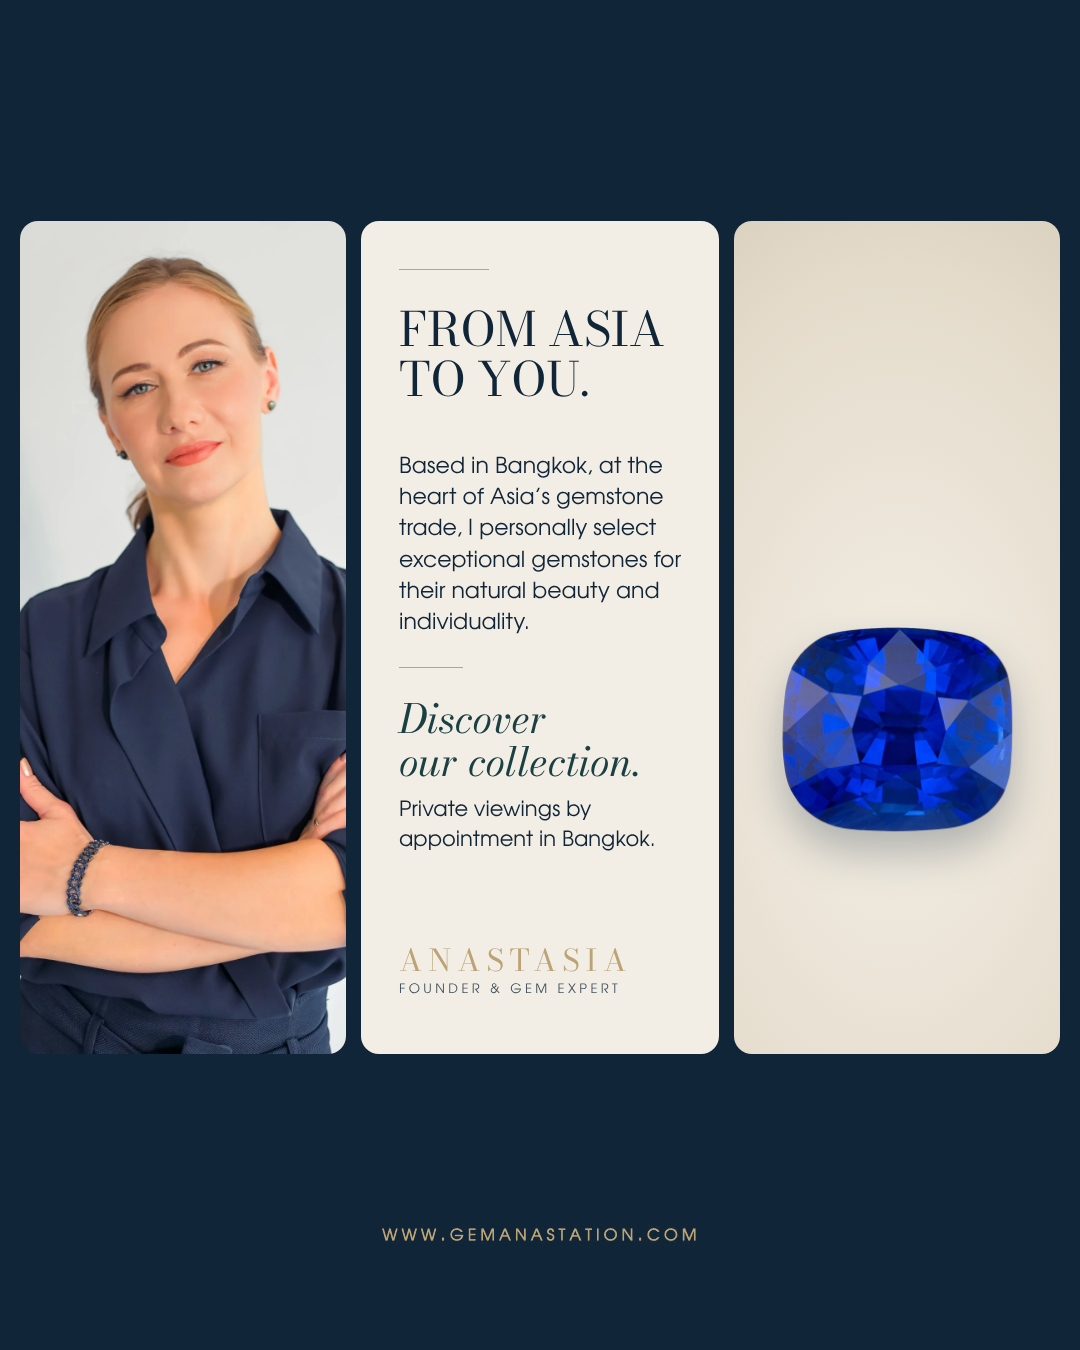
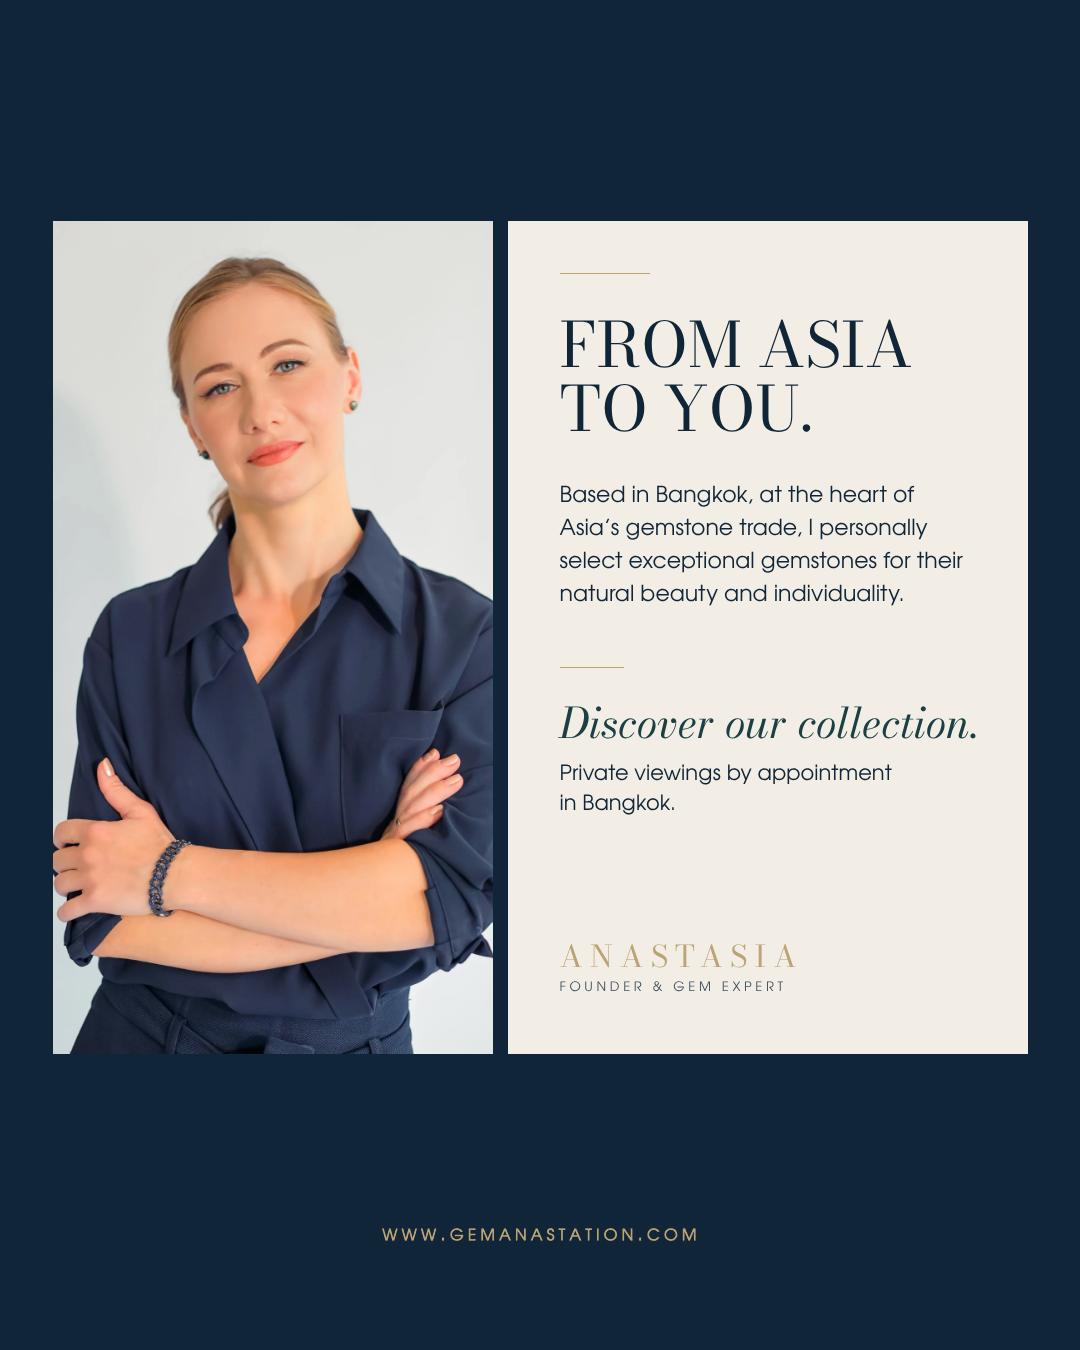
Founder's Note rev. 3: two square-cornered panels (portrait + text)
Claude-Session: https://claude.ai/code/session_01DPJpbdE4xE8Jg3JGMEEyZy

Changed region(s): [[0.0, 0.1556, 1.0, 0.7778]]

diff --git a/gem-anastation-reels/founders_note/note_gems-of-asia.html b/gem-anastation-reels/founders_note/note_gems-of-asia.html
@@ -6,42 +6,36 @@
   :root { --navy: #102537; --teal: #1A4043; --gold2: #BBA375; }
   body { background: #d9d6d0; }
   .slide { width: 1080px; height: 1350px; background: var(--navy); position: relative; overflow: hidden; }
-  .panel { position: absolute; top: 221px; height: 833px; border-radius: 18px; overflow: hidden; }
-  .p1 { left: 20px; width: 326px; }
-  .p1 img { width: 100%; height: 100%; object-fit: cover; object-position: 46% 50%; display: block; }
-  .p2 { left: 361px; width: 358px; background: var(--ivory); color: var(--navy); }
-  .p3 { left: 734px; width: 326px;
-        background: radial-gradient(120% 80% at 50% 62%, #F3EEE5 0%, #E4DBCB 70%, #D6CBB8 100%); }
-  .p3 img { position: absolute; left: 50%; top: 61%; width: 76%; transform: translate(-50%, -50%);
-            filter: drop-shadow(0 22px 20px rgba(16,37,55,.28)); }   /* scaled only, never reshaped */
-
-  .p2 .in { position: absolute; left: 38px; right: 30px; top: 0; bottom: 0; }
+  .panel { position: absolute; top: 221px; height: 833px; overflow: hidden; }   /* square corners */
+  .p1 { left: 52.5px; width: 440px; }
+  .p1 img { width: 100%; height: 100%; object-fit: cover; object-position: 48% 50%; display: block; }
+  .p2 { left: 507.5px; width: 520px; background: var(--ivory); color: var(--navy); }
+  .p2 .in { position: absolute; left: 52px; right: 44px; top: 0; bottom: 0; }
   .hr { position: absolute; left: 0; height: 1px; background: var(--gold2); }
-  .h1 { position: absolute; left: 0; top: 84px; margin: 0; font-family: "Didot Title"; font-weight: 400;
-        font-size: 47px; line-height: 1.06; letter-spacing: -.005em; text-transform: uppercase; color: var(--navy); }
-  .letter { position: absolute; left: 0; top: 232px; width: 290px; margin: 0; font-family: "AvantGarde";
-        font-size: 22px; line-height: 1.42; color: var(--navy); }
-  .lead { position: absolute; left: 0; top: 476px; font-family: "Didot Italic"; font-style: italic;
-        font-size: 40px; line-height: 1.08; color: var(--teal); }
-  .line { position: absolute; left: 0; top: 576px; width: 290px; font-family: "AvantGarde";
-        font-size: 21px; line-height: 1.42; color: var(--navy); }
-  .name { position: absolute; left: 0; top: 716px; font-family: "Didot Title"; font-size: 30px;
-        letter-spacing: .2em; color: var(--gold2); }
-  .role { position: absolute; left: 0; top: 762px; font-family: "AvantGarde"; font-size: 13px;
-        letter-spacing: .26em; text-transform: uppercase; color: var(--navy); opacity: .8; }
+  .h1 { position: absolute; left: 0; top: 92px; margin: 0; font-family: "Didot Title"; font-weight: 400;
+        font-size: 62px; line-height: 1.04; text-transform: uppercase; color: var(--navy); }
+  .letter { position: absolute; left: 0; top: 260px; width: 410px; margin: 0; font-family: "AvantGarde";
+        font-size: 22px; line-height: 1.5; color: var(--navy); }
+  .lead { position: absolute; left: 0; top: 480px; font-family: "Didot Italic"; font-style: italic;
+        font-size: 42px; line-height: 1.08; color: var(--teal); }
+  .line { position: absolute; left: 0; top: 540px; width: 410px; font-family: "AvantGarde";
+        font-size: 21px; line-height: 1.45; color: var(--navy); }
+  .name { position: absolute; left: 0; top: 712px; font-family: "Didot Title"; font-size: 30px;
+        letter-spacing: .24em; color: var(--gold2); }
+  .role { position: absolute; left: 0; top: 760px; font-family: "AvantGarde"; font-size: 13px;
+        letter-spacing: .28em; text-transform: uppercase; color: var(--navy); opacity: .8; }
 </style></head>
 <body><section class="slide" id="note">
   <div class="panel p1"><img src="../gems_of_asia/sources/anastasia_portrait.webp" alt="Anastasia"></div>
   <div class="panel p2"><div class="in">
-    <div class="hr" style="top:48px; width:90px"></div>
+    <div class="hr" style="top:52px; width:90px"></div>
     <h1 class="h1">From Asia<br>to you.</h1>
     <p class="letter">Based in Bangkok, at the heart of Asia’s gemstone trade, I personally select exceptional gemstones for their natural beauty and individuality.</p>
     <div class="hr" style="top:446px; width:64px"></div>
-    <div class="lead">Discover<br>our collection.</div>
-    <div class="line">Private viewings by appointment in Bangkok.</div>
+    <div class="lead">Discover our collection.</div>
+    <div class="line">Private viewings by appointment<br>in Bangkok.</div>
     <div class="name">ANASTASIA</div>
     <div class="role">Founder &amp; Gem Expert</div>
   </div></div>
-  <div class="panel p3"><img src="../gems_of_asia/sources/gem_srilanka_blue_sapphire.png" alt="Blue Sapphire"></div>
   <img src="build/url_on_navy.png" style="position:absolute; left:375px; top:1223px" width="351" height="23" alt="www.gemanastation.com">
 </section></body></html>

diff --git a/gem-anastation-reels/founders_note/README.md b/gem-anastation-reels/founders_note/README.md
@@ -1,19 +1,12 @@
 # Founder's Note — closing slide template (1080 × 1350)
 
-Composition taken from the client reference: navy #102537 page, three
-rounded panels (18 px radius) in one row, 15 px gaps, top y = 221, height 833:
-
-| Panel | x / width | Content |
-|---|---|---|
-| Left | 20 / 326 | original founder portrait, cropped by the frame only (no retouching) |
-| Centre | 361 / 358 | ivory text column, 38 px inner margin |
-| Right | 734 / 326 | real gemstone photo (cut-out), scaled only, on a warm ivory–sand light |
-
-Centre column: gold 90 px rule → Didot caps 47 px headline (#102537) →
-AvantGarde 22 px letter → gold 64 px rule → Didot italic 40 px CTA lead in
-deep teal #1A4043 → AvantGarde 21 px CTA line → ANASTASIA Didot 30 px 0.2 em
-#BBA375 → FOUNDER & GEM EXPERT AvantGarde caps 13 px.
-Website line: post rule (text top y = 1228, centred), #BBA375. No logo, no arrow.
+Rev. 3 (client brief): navy #102537 page, two panels of equal height side by
+side, square corners; portrait 440 px wide, ivory text panel 520 px wide,
+15 px gap, centred; top y = 221, height 833. Text panel: 52 px inner margin,
+gold rule → Didot caps 62 px headline → AvantGarde 22 px letter → gold rule →
+Didot italic 42 px CTA lead in deep teal #1A4043 → AvantGarde 21 px CTA line
+→ ANASTASIA Didot 30 px #BBA375 → role AvantGarde caps 13 px.
+Website line on the post rule (y = 1228), #BBA375. No logo, no arrow.
 
 A new note = a new entry in `NOTES` in `tools/build.mjs`:
 `NODE_PATH=$(npm root -g) node tools/build.mjs <id>`.
